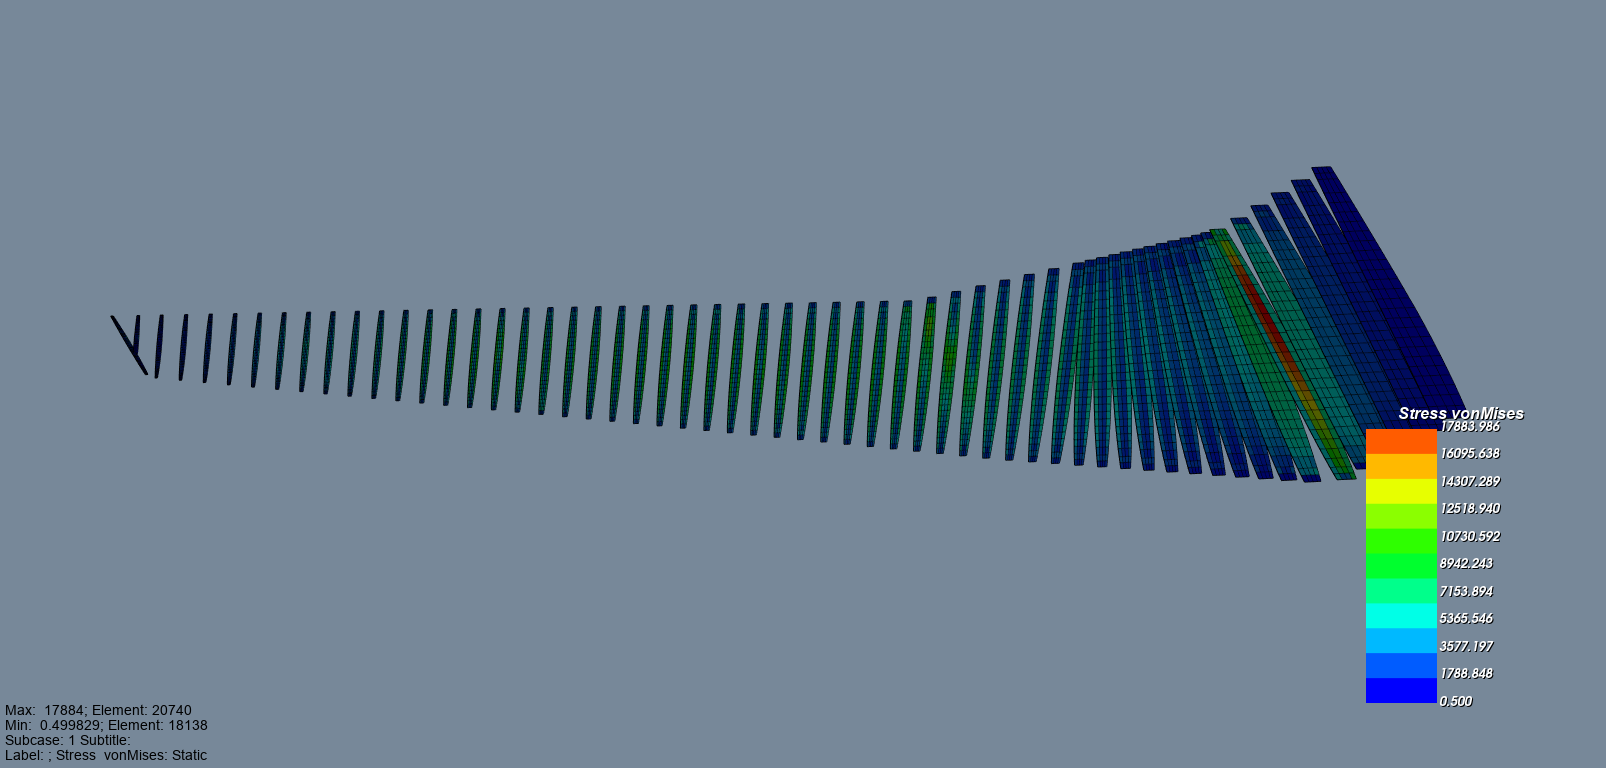
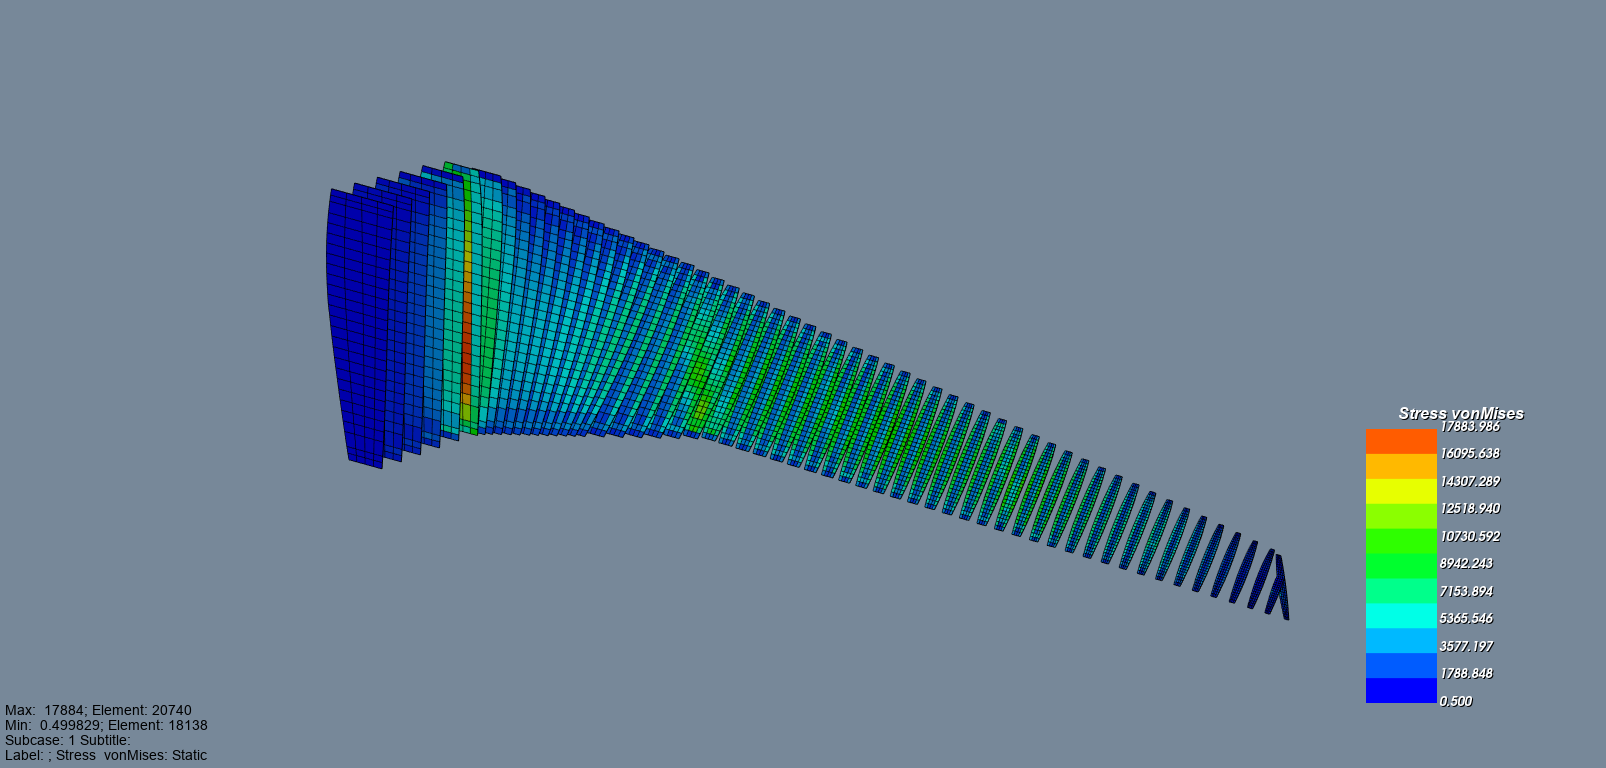
Fix isolated-group camera framing: aspect-matched up-vector, gentler tilt (#21)
* Fix isolated-group camera framing: aspect-matched up-vector, gentler tilt

The PCA-based up-vector picked whichever roll made a group's own bounding
box tightest, which is a different objective than filling the render's
fixed-aspect frame -- confirmed against the isolated-ribs render, where a
fan of ~50 near-parallel rib planes has a naturally tall/narrow silhouette
(~4.3:1) against this setup's ~2.1:1 output, leaving large empty margins
top and bottom no matter how tight the box itself was.

Replaced it with a direct search for the camera roll that matches the
render's own aspect ratio, shared by both the governing-element and
isolated-group cameras. With framing no longer the bottleneck, also
lowered the isolated-group fan tilt from 65 to 40 degrees -- re-rendering
the real ribs and shear-web groups at both angles showed 65 degrees was
still leaving each plate too edge-on to read its own stress gradient, once
the frame-fill problem stopped masking it.

All 8 blog images (full wing, isolated ribs geometry, and all 6 group
stress contours) regenerated with the fix and visually verified.

* Switch governing-element camera to nearest isometric octant

Continuously aiming straight down the governing element's exact face
normal was precise but arbitrary-looking, and more sensitive to messy
per-element geometry (a slightly warped quad skews the whole computed
direction). Isometric views -- equal angle to all three world axes -- are
[…]

Changed region(s): [[0.0623, 0.2188, 0.934, 0.8125]]

diff --git a/scripts/mcp_server.py b/scripts/mcp_server.py
@@ -411,6 +411,13 @@ _CAMERA_PRESETS = {
 
 _DEFAULT_RENDER_TIMEOUT_S = 300
 
+# pyNastranGUI's default main-window render size on this setup, confirmed
+# from actual screenshot dimensions (1606x768) -- used to pick a camera
+# roll (view_up) that matches the OUTPUT frame's aspect ratio rather than
+# whatever aspect the model's own silhouette happens to have. See
+# _up_vector_for_best_frame_fit.
+_RENDER_ASPECT_RATIO = 1606.0 / 768.0
+
 
 def _eids_for_groups(names: list[str], ses_path: str | None) -> set[int]:
     if not ses_path:
@@ -608,18 +615,34 @@ def _write_filtered_op2(op2_path: Path, kept_eids: set[int], output_path: Path) 
     op2.write_op2(str(output_path))
 
 
-def _up_vector_for_horizontal_long_axis(view_direction, points) -> "np.ndarray":
+def _up_vector_for_best_frame_fit(
+    view_direction, points, target_aspect: float = _RENDER_ASPECT_RATIO, n_steps: int = 360
+) -> "np.ndarray":
     """Given a view direction and a (n, 3) array of world-space points,
-    return a view_up vector such that the points' long axis (found via PCA,
-    projected into the plane perpendicular to view_direction) lands
-    horizontal in the rendered frame rather than at some arbitrary angle.
+    return a view_up vector that rolls the camera so the points' bounding
+    box, projected into the plane perpendicular to view_direction, matches
+    the render's own aspect ratio as closely as possible.
 
-    A landscape screenshot fills far more of the frame this way (confirmed
-    during development: an arbitrary fixed up-vector left a tapered,
-    diagonally-oriented wing using ~30% of frame width despite using ~80% of
-    frame height, since ResetCamera fits the axis-aligned bounding box, not
-    the actual silhouette) -- shared by both the governing-stress-element
-    camera and the isolated-group camera below.
+    ResetCamera fits whichever dimension (screen width or height) is more
+    constraining and leaves margin on the other -- it can't change the
+    frame's shape. So the fraction of the frame actually filled is governed
+    entirely by how close the projected bounding box's aspect ratio is to
+    the frame's, not by how tightly the box wraps the model. A previous
+    PCA-based approach (align the point cloud's long axis horizontal)
+    picked whichever roll made the cloud's own natural bounding box
+    tightest, which is a different objective and can pick a badly-mismatched
+    aspect ratio -- confirmed against the isolated-ribs case, where a fan of
+    ~50 near-parallel rib planes has a naturally tall, narrow silhouette:
+    PCA picked a bounding-box aspect of ~4.3:1 against this setup's ~2.1:1
+    frame, filling the width but leaving large empty margins top and bottom.
+    Directly searching for the roll that matches the frame's aspect ratio
+    instead brings that to ~1:1 (no systematic margin on either axis) for
+    every case tried (ribs, shear webs, spars, skin panels).
+
+    Shared by both the governing-stress-element camera and the
+    isolated-group camera below. n_steps=360 (half-degree resolution over
+    the 0-180 degree period a roll axis repeats in) is cheap even for
+    thousands of points since it's fully vectorized.
     """
     import numpy as np
 
@@ -633,10 +656,22 @@ def _up_vector_for_horizontal_long_axis(view_direction, points) -> "np.ndarray":
     centered = points - points.mean(axis=0)
     u = centered @ e1
     v = centered @ e2
-    cov = np.cov(np.stack([u, v]))
-    eigvals, eigvecs = np.linalg.eigh(cov)
-    short_axis_2d = eigvecs[:, np.argsort(eigvals)[0]]
-    return short_axis_2d[0] * e1 + short_axis_2d[1] * e2
+
+    thetas = np.linspace(0.0, np.pi, n_steps, endpoint=False)
+    cos_t = np.cos(thetas)[:, None]
+    sin_t = np.sin(thetas)[:, None]
+    # Rotating (u, v) by theta is equivalent to rolling the camera so that
+    # up = sin(theta)*e1 + cos(theta)*e2 maps to screen-vertical.
+    rotated_u = u[None, :] * cos_t - v[None, :] * sin_t
+    rotated_v = u[None, :] * sin_t + v[None, :] * cos_t
+    width = rotated_u.max(axis=1) - rotated_u.min(axis=1)
+    height = rotated_v.max(axis=1) - rotated_v.min(axis=1)
+    aspect = width / height
+    mismatch = np.abs(np.log(aspect / target_aspect))
+    theta = thetas[np.argmin(mismatch)]
+
+    up = np.sin(theta) * e1 + np.cos(theta) * e2
+    return up
 
 
 def _camera_look_direction_for_governing_element(
@@ -645,14 +680,24 @@ def _camera_look_direction_for_governing_element(
     tuple[float, float, float], tuple[float, float, float], tuple[float, float, float]
 ] | None:
     """Compute (focal_point, camera_position, view_up) so a camera looking
-    through them stares straight down the outward face normal of whichever
-    plate element (CQUAD4/CTRIA3) has the governing (highest) von Mises
-    stress in op2_path -- see get_max_stress for why plate vs. bar stress
-    isn't blended into one number.
+    through them views the model from whichever isometric octant best faces
+    the outward face normal of whichever plate element (CQUAD4/CTRIA3) has
+    the governing (highest) von Mises stress in op2_path -- see
+    get_max_stress for why plate vs. bar stress isn't blended into one
+    number.
 
-    The point of aiming along the face normal specifically: it's the one
-    direction guaranteed to show that element unobstructed, since it's an
-    outer skin panel and nothing sits further outward along its own normal.
+    An isometric direction (equal angle to all three world axes) is a
+    standard engineering-drawing convention specifically because no single
+    axis is degenerate, so it can't collapse a flat panel edge-on the way a
+    "top"/"side" preset can. Rather than aiming continuously straight down
+    the governing element's own computed normal (this function's previous
+    approach), this picks whichever of the 8 canonical isometric octants
+    the element's normal points most toward (highest dot product) --
+    simpler, a more standard/recognizable view, and more robust to messy
+    per-element geometry (a slightly-off normal from a warped quad still
+    resolves to the same octant, rather than continuously skewing the
+    computed direction).
+
     camera_position is placed far enough out (2x the model's bounding-box
     diagonal) that a subsequent vtkRenderer.ResetCamera() call -- which
     preserves view direction/up but repositions along it to fit the whole
@@ -698,9 +743,14 @@ def _camera_look_direction_for_governing_element(
     if np.dot(centroid - bbox_center, normal) < 0:
         normal = -normal
 
+    octant_directions = np.array(
+        [[sx, sy, sz] for sx in (1.0, -1.0) for sy in (1.0, -1.0) for sz in (1.0, -1.0)]
+    ) / np.sqrt(3.0)
+    view_from_direction = octant_directions[np.argmax(octant_directions @ normal)]
+
     diag = float(np.linalg.norm(bbox_max - bbox_min))
-    camera_position = bbox_center + normal * diag * 2.0
-    up = _up_vector_for_horizontal_long_axis(normal, all_coords)
+    camera_position = bbox_center + view_from_direction * diag * 2.0
+    up = _up_vector_for_best_frame_fit(view_from_direction, all_coords)
 
     return (
         (float(bbox_center[0]), float(bbox_center[1]), float(bbox_center[2])),
@@ -710,7 +760,7 @@ def _camera_look_direction_for_governing_element(
 
 
 def _camera_look_direction_for_isolated_group(
-    bdf_path: Path, eids: set[int], tilt_deg: float = 65.0
+    bdf_path: Path, eids: set[int], tilt_deg: float = 40.0
 ) -> tuple[
     tuple[float, float, float], tuple[float, float, float], tuple[float, float, float]
 ] | None:
@@ -728,6 +778,16 @@ def _camera_look_direction_for_isolated_group(
     normal, mostly looking along it but angled enough to see each element's
     extent -- is the standard oblique "stacked bulkheads" engineering view:
     the parallel elements fan out and are individually distinguishable.
+
+    tilt_deg=40 (previously 65, before _up_vector_for_best_frame_fit
+    existed) trades a little separation for a lot more per-element face
+    area: at 65 degrees each rib/web is viewed close to edge-on, so once
+    framing stopped being the bottleneck (see
+    _up_vector_for_best_frame_fit), the plates themselves were still too
+    foreshortened to show their own internal stress gradient -- confirmed
+    by re-rendering the real ribs and shear-web groups at both angles: 40
+    degrees keeps every element distinguishable while making each one wide
+    enough to actually read.
 
     The shared normal is the average of each element's own local outward
     normal (hemisphere-aligned first, since node winding can flip sign
@@ -784,7 +844,7 @@ def _camera_look_direction_for_isolated_group(
     view_from_direction /= np.linalg.norm(view_from_direction)
 
     camera_position = bbox_center + view_from_direction * diag * 2.0
-    up = _up_vector_for_horizontal_long_axis(view_from_direction, group_points)
+    up = _up_vector_for_best_frame_fit(view_from_direction, group_points)
 
     return (
         (float(bbox_center[0]), float(bbox_center[1]), float(bbox_center[2])),
@@ -833,10 +893,11 @@ def _build_postscript(
     custom_camera, when given, overrides the named azimuth/elevation preset
     entirely: (focal_point, position, view_up), all (x, y, z) world
     coordinates/vectors, computed by
-    _camera_look_direction_for_governing_element so the camera looks
-    straight down the outward face normal of the governing stress element --
-    guaranteeing an unobstructed view of it -- then vtkRenderer.ResetCamera()
-    fits the whole model to the frame along that fixed direction.
+    _camera_look_direction_for_governing_element so the camera views the
+    model from whichever isometric octant best faces the governing stress
+    element's outward face normal -- guaranteeing an unobstructed view of
+    it -- then vtkRenderer.ResetCamera() fits the whole model to the frame
+    along that fixed direction.
 
     want_stress_fringe searches the loaded result cases for one whose name
     matches "vonmises" case/whitespace/underscore-insensitively (pyNastran
@@ -1187,7 +1248,7 @@ def render_model_view(
     mostly-planar groups like ribs can render them near edge-on, collapsed
     into an unreadable sliver (confirmed against a real render). Pass
     camera="auto" together with isolate_groups/isolate_property_ids instead
-    to aim for the isolated elements' shared face normal, tilted ~65 degrees
+    to aim for the isolated elements' shared face normal, tilted ~40 degrees
     off it, fanning out parallel elements so each is distinguishable rather
     than overlapping (see _camera_look_direction_for_isolated_group).
     "auto" isn't the default here because it has nothing to aim at without
@@ -1253,14 +1314,19 @@ def render_stress_contour(
     camera: "iso"/"top"/"side" (see _CAMERA_PRESETS), or the default,
     "auto". Without isolate_groups/isolate_property_ids, "auto" looks up the
     governing (highest von Mises) plate element via get_max_stress, then
-    points the camera straight down that element's outward face normal
-    before fitting the whole model to the frame -- because it's an outer
-    skin panel, nothing else in the model sits further outward along that
-    exact direction, so the governing element is guaranteed to be visible
-    and unobstructed rather than potentially hidden behind other geometry or
-    foreshortened edge-on the way a fixed preset can leave it. WITH
-    isolate_groups/isolate_property_ids, "auto" aims for the isolated
-    elements' shared face normal instead (see
+    views the model from whichever of the 8 canonical isometric octants
+    (equal angle to all three world axes -- the standard engineering-
+    drawing convention, chosen specifically because no single axis is
+    degenerate the way a "top"/"side" preset can be) best faces that
+    element's outward face normal, before fitting the whole model to the
+    frame. This isn't a hard occlusion guarantee the way aiming exactly
+    down the element's own normal would be (some other part of the model
+    could in principle sit further out along that octant's fixed diagonal),
+    but it keeps the governing element close to face-on and avoids the
+    foreshortened-edge-on failure mode a fixed preset can leave it in, while
+    being a simpler, more standard view than a continuously-computed exact
+    direction. WITH isolate_groups/isolate_property_ids, "auto" aims for the
+    isolated elements' shared face normal instead (see
     _camera_look_direction_for_isolated_group) -- isolating already removes
     any occlusion concern, so showing the isolated sub-component itself well
     (e.g. fanning out parallel ribs instead of collapsing them edge-on)

diff --git a/scripts/test_mcp_server.py b/scripts/test_mcp_server.py
@@ -373,13 +373,22 @@ def test_camera_look_direction_aims_at_governing_element(two_property_bdf: Path)
     focal_point, camera_position, view_up = result
 
     # two_property_bdf's elements are flat in the XY plane (all grids have
-    # z=0), so the outward face normal must be +-Z -- the camera should be
-    # looking straight down/up the Z axis, offset from the focal point only
-    # in Z, with an in-plane (XY) view_up.
-    assert camera_position[0] == pytest.approx(focal_point[0], abs=1e-3)
-    assert camera_position[1] == pytest.approx(focal_point[1], abs=1e-3)
-    assert abs(camera_position[2] - focal_point[2]) > 1.0
-    assert view_up[2] == pytest.approx(0.0, abs=1e-6)
+    # z=0), so their outward face normal is exactly +Z -- the camera should
+    # sit at one of the 8 isometric octants (equal-magnitude x/y/z offset
+    # from the focal point) whose Z component agrees in sign with that
+    # normal, i.e. it's actually facing the element rather than away from
+    # it. Which of the (here, tied) octants sharing that Z sign gets picked
+    # is an implementation-defined tiebreak, not a meaningful invariant, so
+    # this doesn't assert an exact direction.
+    import numpy as np
+
+    offset = np.array(camera_position) - np.array(focal_point)
+    direction = offset / np.linalg.norm(offset)
+    assert np.allclose(np.abs(direction), 1.0 / np.sqrt(3.0), atol=1e-6)
+    assert direction[2] > 0
+
+    assert np.linalg.norm(view_up) == pytest.approx(1.0, abs=1e-6)
+    assert np.dot(view_up, direction) == pytest.approx(0.0, abs=1e-6)
 
     from pyNastran.bdf.bdf import BDF
 

diff --git a/README.md b/README.md
@@ -74,10 +74,11 @@ Point an MCP client (e.g. Claude Desktop/Code config) at that command. Tools:
   when it has one (`ses_path`, see `ses_groups.py`), with property-ID
   filtering as the fallback. `camera` picks a named preset (`"iso"`,
   `"top"`, `"side"`) or `"auto"` (`render_stress_contour`'s default), which
-  aims itself instead of guessing: at the governing stress element's
-  outward face normal normally, or at an isolated group's shared face
-  normal (tilted to fan out parallel elements like ribs so each is
-  distinguishable) when isolating. `zoom` tightens the frame, auto-applied
+  aims itself instead of guessing: at whichever of the 8 canonical
+  isometric octants best faces the governing stress element normally, or
+  at an isolated group's shared face normal (tilted to fan out parallel
+  elements like ribs so each is distinguishable) when isolating. `zoom`
+  tightens the frame, auto-applied
   by default since a plain reset leaves significant empty margin. Isolating
   with `render_stress_contour` transparently trims the OP2 to match the
   isolated element set first -- pairing a filtered geometry with the full
